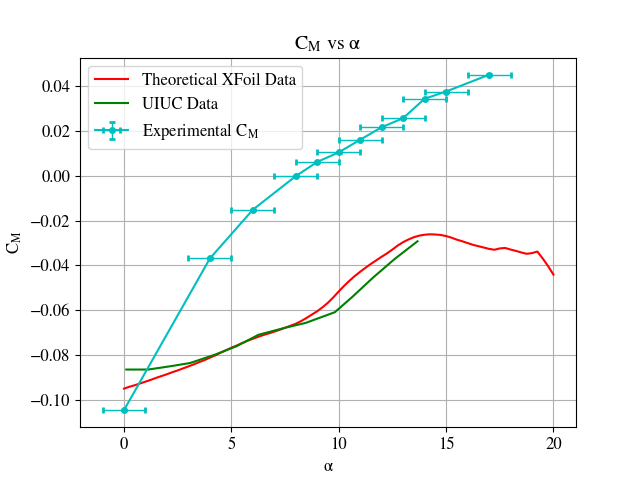
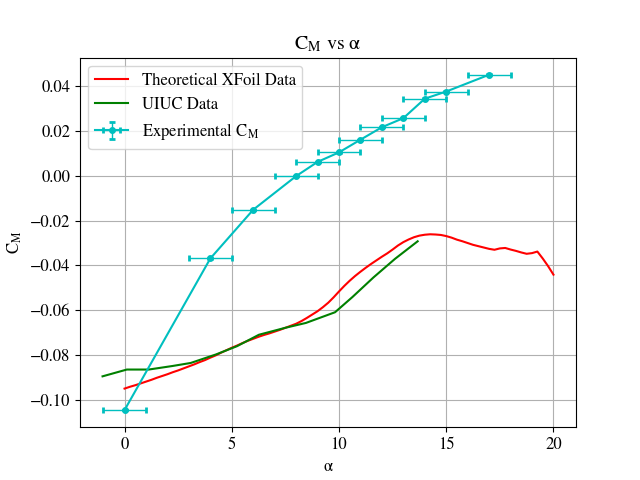
added more AoAs

diff --git a/src/Graphing.py b/src/Graphing.py
@@ -141,7 +141,9 @@ def CoeffGraph(a: np.int32, Cl: np.array, dCl: np.array, Cd: np.array, dCd: np.a
         xfoil_cm.append(float(line[4]))
 
     uiuc_a = []
+    uiuc_al = []
     uiuc_cl = []
+    uiuc_cl2 = []
     uiuc_cd = []
     
     uiuc_am = []
@@ -154,7 +156,7 @@ def CoeffGraph(a: np.int32, Cl: np.array, dCl: np.array, Cd: np.array, dCd: np.a
         reader = reader[1:]
         for row in reader:
             uiuc_a.append(float(row[0]))
-            uiuc_cl.append(float(row[1]))
+            uiuc_cl2.append(float(row[1]))
             uiuc_cd.append(float(row[2]))
 
     with open(r"data\UIUC_Data\UIUC_DataCm.csv", newline='') as U:
@@ -162,14 +164,16 @@ def CoeffGraph(a: np.int32, Cl: np.array, dCl: np.array, Cd: np.array, dCd: np.a
         reader = list(reader)
         reader = reader[1:]
         for row in reader:
-            uiuc_am.append(float(row[0]))
-            uiuc_cm.append(float(row[1]))
+            uiuc_al.append(float(row[0]))
+            uiuc_cl.append(float(row[1]))
+            uiuc_am.append(float(row[2]))
+            uiuc_cm.append(float(row[3]))
 
 
     print(" Saving C_l-a.png..")
     plt.plot(xfoil_a, xfoil_cl, color = 'r')
     plt.errorbar(a, Cl, xerr=1, yerr=dCl, color = 'c', marker = '.', capsize=2, elinewidth=1, markeredgewidth=2)
-    plt.plot(uiuc_a, uiuc_cl, color = 'g')
+    plt.plot(uiuc_al, uiuc_cl, color = 'g')
     params = {'mathtext.default': 'regular' }          
     plt.rcParams.update(params)
     plt.rcParams.update({'font.size': 12})
@@ -227,7 +231,7 @@ def CoeffGraph(a: np.int32, Cl: np.array, dCl: np.array, Cd: np.array, dCd: np.a
 
     print(" Saving C_l-C_d.png..")
     plt.plot(xfoil_cdp, xfoil_cl, color='r')
-    plt.plot(uiuc_cd, uiuc_cl, color='g')
+    plt.plot(uiuc_cd, uiuc_cl2, color='g')
     plt.errorbar(Cd, Cl, xerr=dCd, yerr=dCl, color='c', marker='.', capsize=2, elinewidth=1, markeredgewidth=2)
     params = {'mathtext.default': 'regular'}
     plt.rcParams.update(params)
